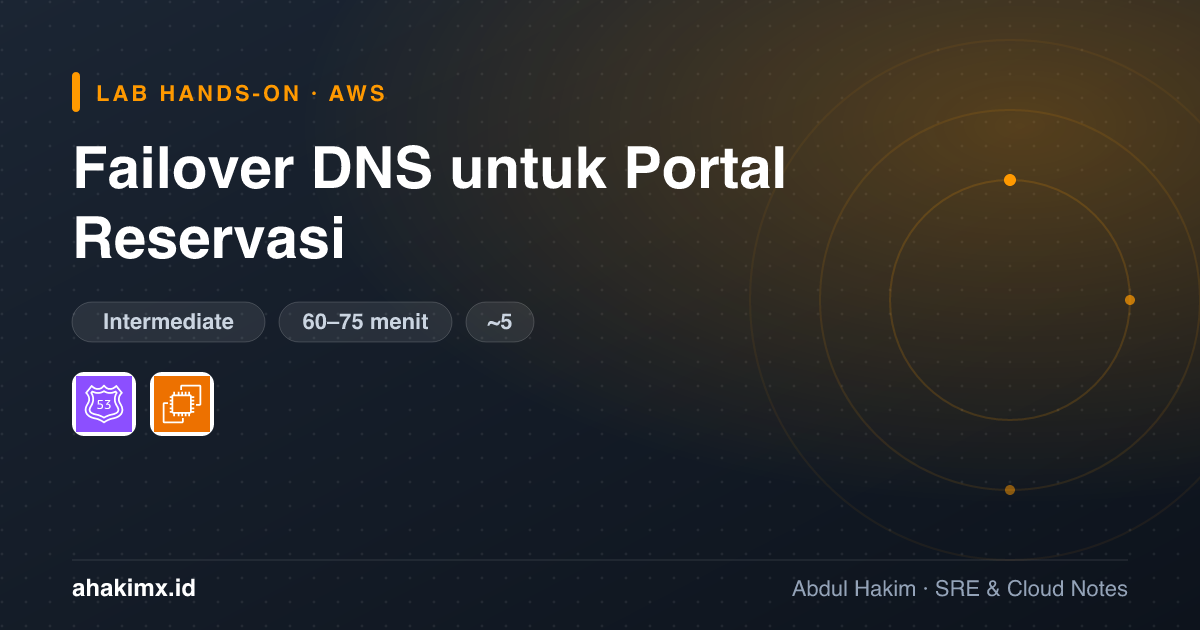
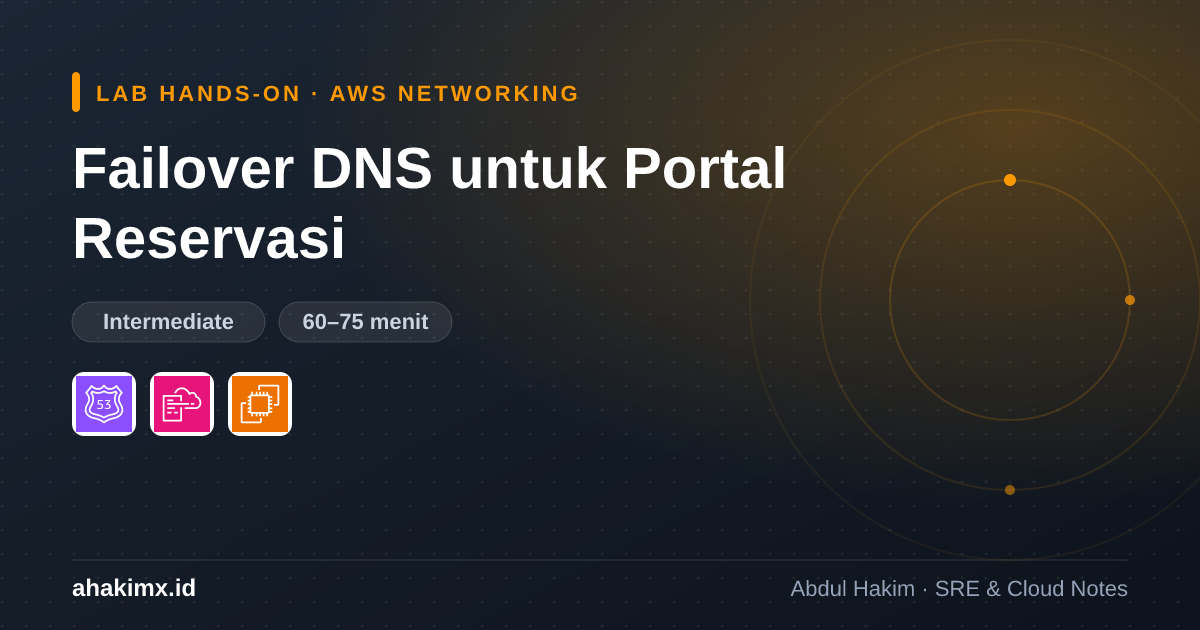
Lab Route 53: lengkapi properti, ringkasan, kuis, hapus diagram Console yang salah
Tag sesuai konvensi, kartu lab dengan hasil dan region, biaya dikosongkan
sampai lab dijalankan. Tambah entri di Projects dan tautan lab berikutnya
dari lab EFS.

Claude-Session: https://claude.ai/code/session_01Bh4RsyetutLaR5dfUK6Gzm

diff --git a/_posts/2026-11-16-lab-route-53-failover-dns-untuk-portal-reservasi.md b/_posts/2026-11-16-lab-route-53-failover-dns-untuk-portal-reservasi.md
@@ -5,13 +5,13 @@ date: 2026-11-16T09:00:00+0700
 description: "Bangun DNS active-passive. Matikan server utama, buktikan jawaban DNS pindah ke server cadangan, lalu uji failback."
 categories:
   - aws
+  - networking
 tags:
   - aws
-  - soa-c03
-  - hands-on
-  - route-53
-  - failover-routing
-  - hybrid
+  - route53
+  - ec2
+  - dns
+  - failover
 image:
   path: /assets/img/posts/lab-route-53-failover-dns-untuk-portal-reservasi/cover.png
 toc: true
@@ -24,13 +24,18 @@ lab:
   pair: "mwimtasu-b999be"
 ---
 <section class="lab-card" data-lang="id" aria-label="Ringkasan lab">
-<ul class="lab-stats"><li><span>Level</span><b>Intermediate</b></li><li><span>Durasi</span><b>60–75 menit</b></li><li><span>Biaya</span><b>~5</b></li></ul>
-<ul class="lab-services"><li><span class="lab-svc-ic" style="background-image:url('/assets/img/aws/route53.svg')" aria-hidden="true"></span>Route 53</li><li><span class="lab-svc-ic" style="background-image:url('/assets/img/aws/ec2.svg')" aria-hidden="true"></span>Amazon EC2</li></ul>
+<div class="lab-card__kicker">Hasil lab</div>
+<p class="lab-card__result">DNS active-passive yang terbukti pindah ke server cadangan saat server utama mati, lalu kembali otomatis setelah pulih.</p>
+<ul class="lab-stats"><li><span>Level</span><b>Intermediate</b></li><li><span>Durasi</span><b>60–75 menit</b></li><li><span>Region</span><b>ap-southeast-3</b></li></ul>
+<ul class="lab-services"><li><span class="lab-svc-ic" style="background-image:url('/assets/img/aws/route53.svg')" aria-hidden="true"></span>Route 53</li><li><span class="lab-svc-ic" style="background-image:url('/assets/img/aws/cloudformation.svg')" aria-hidden="true"></span>CloudFormation</li><li><span class="lab-svc-ic" style="background-image:url('/assets/img/aws/ec2.svg')" aria-hidden="true"></span>Amazon EC2</li></ul>
 <div class="lab-actions"><a class="lab-btn" href="#langkah-1">Langsung ke langkah ↓</a></div>
 </section>
 
-> Bangun DNS active-passive. Matikan server utama, buktikan jawaban DNS pindah ke server cadangan, lalu uji failback.  
-> Estimasi waktu: 45–60 menit · Level: Associate
+> **Ringkasan**
+> - **Masalah:** portal reservasi harus tetap bisa diakses saat server utama mati, tanpa mengganti alamat secara manual.
+> - **Solusi:** pasangan record *Failover routing* (PRIMARY dan SECONDARY) di public hosted zone, dengan HTTP health check pada primary.
+> - **Bukti:** setelah primary dihentikan, name server Route 53 menjawab IP secondary; setelah primary hidup lagi, jawaban kembali ke primary (automatic failback).
+{: .prompt-info }
 
 ## Tujuan belajar
 
@@ -578,9 +583,7 @@ Jika masih muncul IP secondary, periksa status health check dan tunggu stabil se
 
 ### 1. Buktikan kondisi normal
 
-![Console](/assets/img/posts/lab-route-53-failover-dns-untuk-portal-reservasi/lab-route-53-failover-dns-untuk-portal-reservasi-alur-2.svg){: .light }
-![Console](/assets/img/posts/lab-route-53-failover-dns-untuk-portal-reservasi/lab-route-53-failover-dns-untuk-portal-reservasi-alur-2-dark.svg){: .dark }
-*Console*
+**Console:** Route 53 → Health checks, lalu pastikan health check primary berstatus sehat.
 
 ```bash
 aws route53 get-health-check-status \
@@ -604,9 +607,7 @@ curl --fail --silent --show-error \
 
 ### 2. Hentikan primary
 
-![Console](/assets/img/posts/lab-route-53-failover-dns-untuk-portal-reservasi/lab-route-53-failover-dns-untuk-portal-reservasi-alur-3.svg){: .light }
-![Console](/assets/img/posts/lab-route-53-failover-dns-untuk-portal-reservasi/lab-route-53-failover-dns-untuk-portal-reservasi-alur-3-dark.svg){: .dark }
-*Console*
+**Console:** EC2 → Instances → pilih instance primary → Instance state → Stop instance. Alternatif lewat CLI:
 
 > Perintah berikut menghentikan instance primary lab. Pastikan `PRIMARY_ID` bukan instance produksi. Public IPv4 otomatis dapat berubah ketika instance dinyalakan kembali.
 
@@ -859,6 +860,13 @@ rmdir "$LAB_ID"
 ```
 
 Output yang diharapkan: tidak ada output.
+
+<section class="lab-quiz" aria-label="Kuis">
+<div class="lab-quiz__head"><strong>Uji pemahaman</strong><span>3 soal</span><span class="lab-quiz__score">0/3</span></div>
+<div class="lab-q"><p>1. Health check primary berstatus tidak sehat. Apa yang dijawab Route 53 untuk record failover ini?</p><button type="button">Tidak menjawab sama sekali sampai primary pulih</button><button type="button" data-right="1">IP pada record SECONDARY</button><button type="button">Kedua IP sekaligus, lalu klien memilih</button><div class="lab-q__why">pada Failover routing, Route 53 menjawab record PRIMARY selama health check-nya sehat, dan beralih ke record SECONDARY saat primary dinilai tidak sehat.</div></div>
+<div class="lab-q"><p>2. Record SECONDARY di lab ini tidak punya health check. Bagaimana Route 53 memperlakukannya?</p><button type="button" data-right="1">Selalu dianggap sehat, jadi tetap dijawab walau servernya sedang mati</button><button type="button">Selalu dianggap tidak sehat, jadi tidak pernah dijawab</button><button type="button">Route 53 menolak membuat record failover tanpa health check</button><div class="lab-q__why">record tanpa health check dianggap sehat. Itu sebabnya secondary di lab ini selalu bisa menjadi jawaban cadangan; di produksi, pertimbangkan health check juga untuk secondary.</div></div>
+<div class="lab-q"><p>3. Setelah failover, sebagian pengguna masih diarahkan ke primary selama beberapa saat. Penyebab yang paling mungkin?</p><button type="button">Health check butuh restart manual</button><button type="button">Route 53 memindahkan koneksi aktif secara bertahap</button><button type="button" data-right="1">Resolver dan klien masih memakai jawaban DNS lama sampai TTL-nya habis</button><div class="lab-q__why">Route 53 hanya mengubah jawaban DNS. Jawaban lama yang sudah di-cache tetap dipakai sampai TTL habis, dan koneksi yang sudah terbuka tidak ikut dipindahkan.</div></div>
+</section>
 
 ## Poin penting untuk ujian
 

diff --git a/_tabs/projects.md b/_tabs/projects.md
@@ -21,6 +21,7 @@ A collection of hands-on projects I've built and documented. Each project includ
 ## Hands-on labs
 
 <ul class="proj-list">
+<li><a class="proj-link" href="/posts/lab-route-53-failover-dns-untuk-portal-reservasi/">Route 53 DNS Failover Lab</a><span class="proj-lang" title="Bahasa Indonesia">ID</span><span class="proj-desc">Active-passive DNS with health checks: stop the primary server, prove DNS moves to the standby, then fail back.</span><span class="proj-tags"><i>AWS</i><i>Route 53</i><i>EC2</i><i>DNS</i></span></li>
 <li><a class="proj-link" href="/posts/lab-shared-dataset-across-azs-amazon-efs-access-points-posix/">A Shared Dataset Across AZs with Amazon EFS</a><span class="proj-lang" title="English">EN</span><span class="proj-desc">One Regional EFS file system for two teams in two AZs, with four layers of access control. <a class="proj-alt" href="/posts/lab-dataset-bersama-lintas-az-dengan-amazon-efs-access-point-dan-izin-posix/" hreflang="id">versi Indonesia</a></span><span class="proj-tags"><i>AWS</i><i>EFS</i><i>IAM</i></span></li>
 <li><a class="proj-link" href="/posts/chaos-engineering-on-amazon-eks-using-aws-fault-injection-service-fis/">Chaos Engineering on Amazon EKS with AWS FIS</a><span class="proj-lang" title="English">EN</span><span class="proj-desc">Run Fault Injection Service experiments on an EKS cluster to test application resilience.</span><span class="proj-tags"><i>AWS</i><i>EKS</i><i>Chaos engineering</i></span></li>
 <li><a class="proj-link" href="/posts/devops-homelab-1-install-gitlab-server-runner/">DevOps Homelab #1: GitLab Server &amp; Runner</a><span class="proj-lang" title="English">EN</span><span class="proj-desc">GitLab CE and GitLab Runner with Docker Compose, part one of an on-premise CI/CD pipeline.</span><span class="proj-tags"><i>GitLab</i><i>CI/CD</i><i>Docker</i></span></li>

diff --git a/_posts/2026-11-13-lab-dataset-bersama-lintas-az-dengan-amazon-efs-access-point-dan-izin-posix.md b/_posts/2026-11-13-lab-dataset-bersama-lintas-az-dengan-amazon-efs-access-point-dan-izin-posix.md
@@ -615,3 +615,7 @@ Kalau ada user yang sudah ditambahkan ke group, keluarkan dulu dengan `aws iam r
 - Controlling network access (security groups): <https://docs.aws.amazon.com/efs/latest/ug/network-access.html>
 - AWS CLI `efs` reference: <https://docs.aws.amazon.com/cli/latest/reference/efs/>
 - PosixProfile (Uid, Gid, SecondaryGids) untuk akses EFS: <https://docs.aws.amazon.com/sdk-for-kotlin/api/latest/transfer/aws.sdk.kotlin.services.transfer.model/-create-user-request/posix-profile.html>
+
+<!-- lab-next:start -->
+<section class="lab-next" aria-label="Lab berikutnya"><div class="lab-next__kicker">Lab berikutnya</div><div class="lab-next__grid"><a class="lab-next__card" href="/posts/lab-route-53-failover-dns-untuk-portal-reservasi/"><span class="lab-next__img" style="background-image:url('/assets/img/posts/lab-route-53-failover-dns-untuk-portal-reservasi/cover.png')" aria-hidden="true"></span><span class="lab-next__body"><span class="lab-next__title">Failover DNS untuk Portal Reservasi</span><span class="lab-next__meta">Intermediate · 60–75 menit</span><span class="lab-next__go">Mulai lab →</span></span></a></div></section>
+<!-- lab-next:end -->
